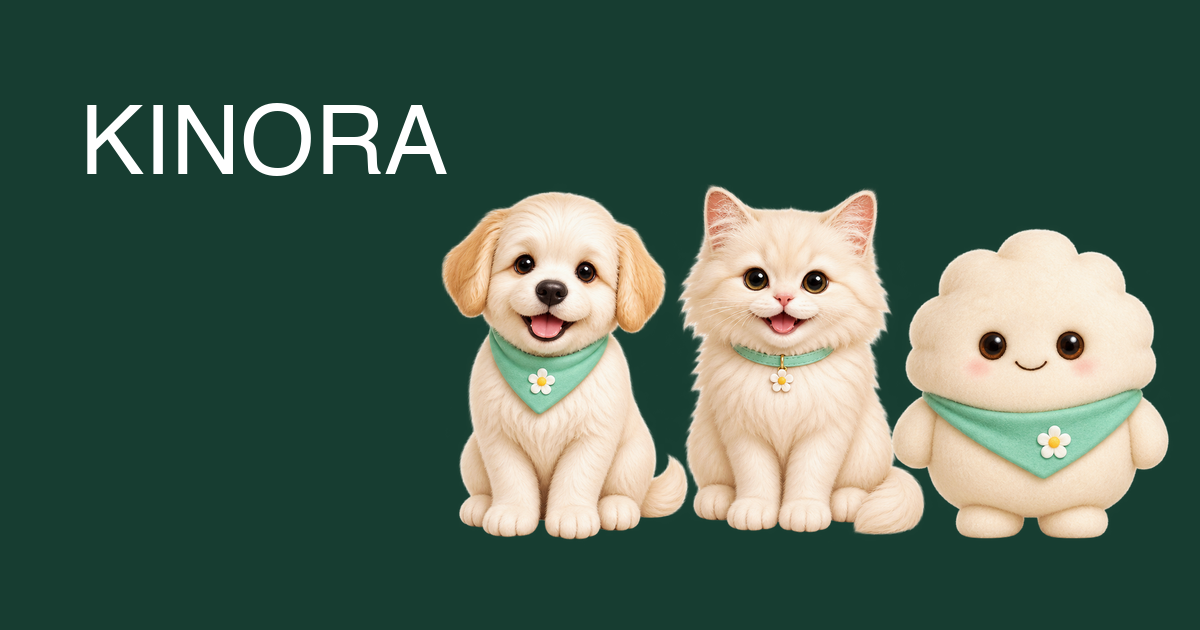
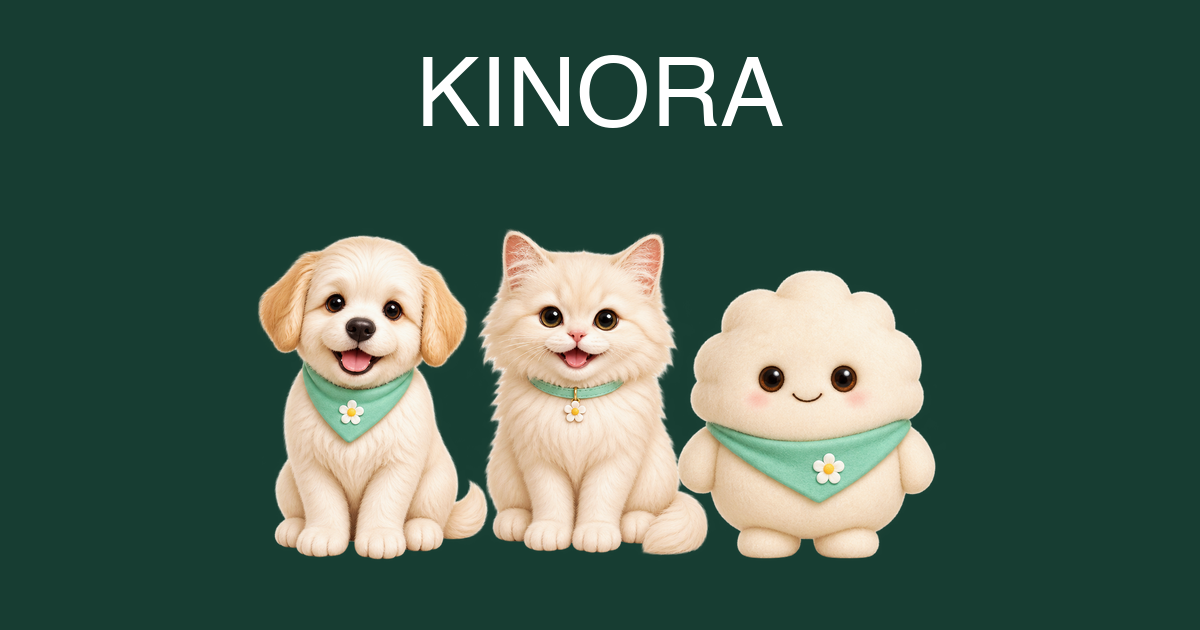
공유 이미지 로고 및 캐릭터 배치 개선

diff --git a/index.html b/index.html
@@ -17,7 +17,7 @@
   <meta property="og:site_name" content="KINORA" />
   <meta property="og:title" content="KINORA — 멀리 있어도, 마음은 곁에." />
   <meta property="og:description" content="AI 반려친구가 부모님의 일상을 함께하며 가족에게 꼭 필요한 순간을 알려줍니다. KINORA와 함께 출시 알림을 받아보세요." />
-  <meta property="og:image" content="https://maccrey.github.io/kinors_website/assets/og-image.png" />
+  <meta property="og:image" content="https://maccrey.github.io/kinors_website/assets/og-image.png?v=2" />
   <meta property="og:image:width" content="1200" />
   <meta property="og:image:height" content="630" />
   <meta property="og:image:alt" content="KINORA - AI 반려친구 강아지, 고양이, 지방이 캐릭터" />
@@ -28,7 +28,7 @@
   <meta name="twitter:card" content="summary_large_image" />
   <meta name="twitter:title" content="KINORA — 멀리 있어도, 마음은 곁에." />
   <meta name="twitter:description" content="AI 반려친구가 부모님의 일상을 함께하며 가족에게 꼭 필요한 순간을 알려줍니다." />
-  <meta name="twitter:image" content="https://maccrey.github.io/kinors_website/assets/og-image.png" />
+  <meta name="twitter:image" content="https://maccrey.github.io/kinors_website/assets/og-image.png?v=2" />
   <meta name="twitter:image:alt" content="KINORA 캐릭터 - 강아지, 고양이, 지방이" />
 
   <!-- Theme & mobile -->
